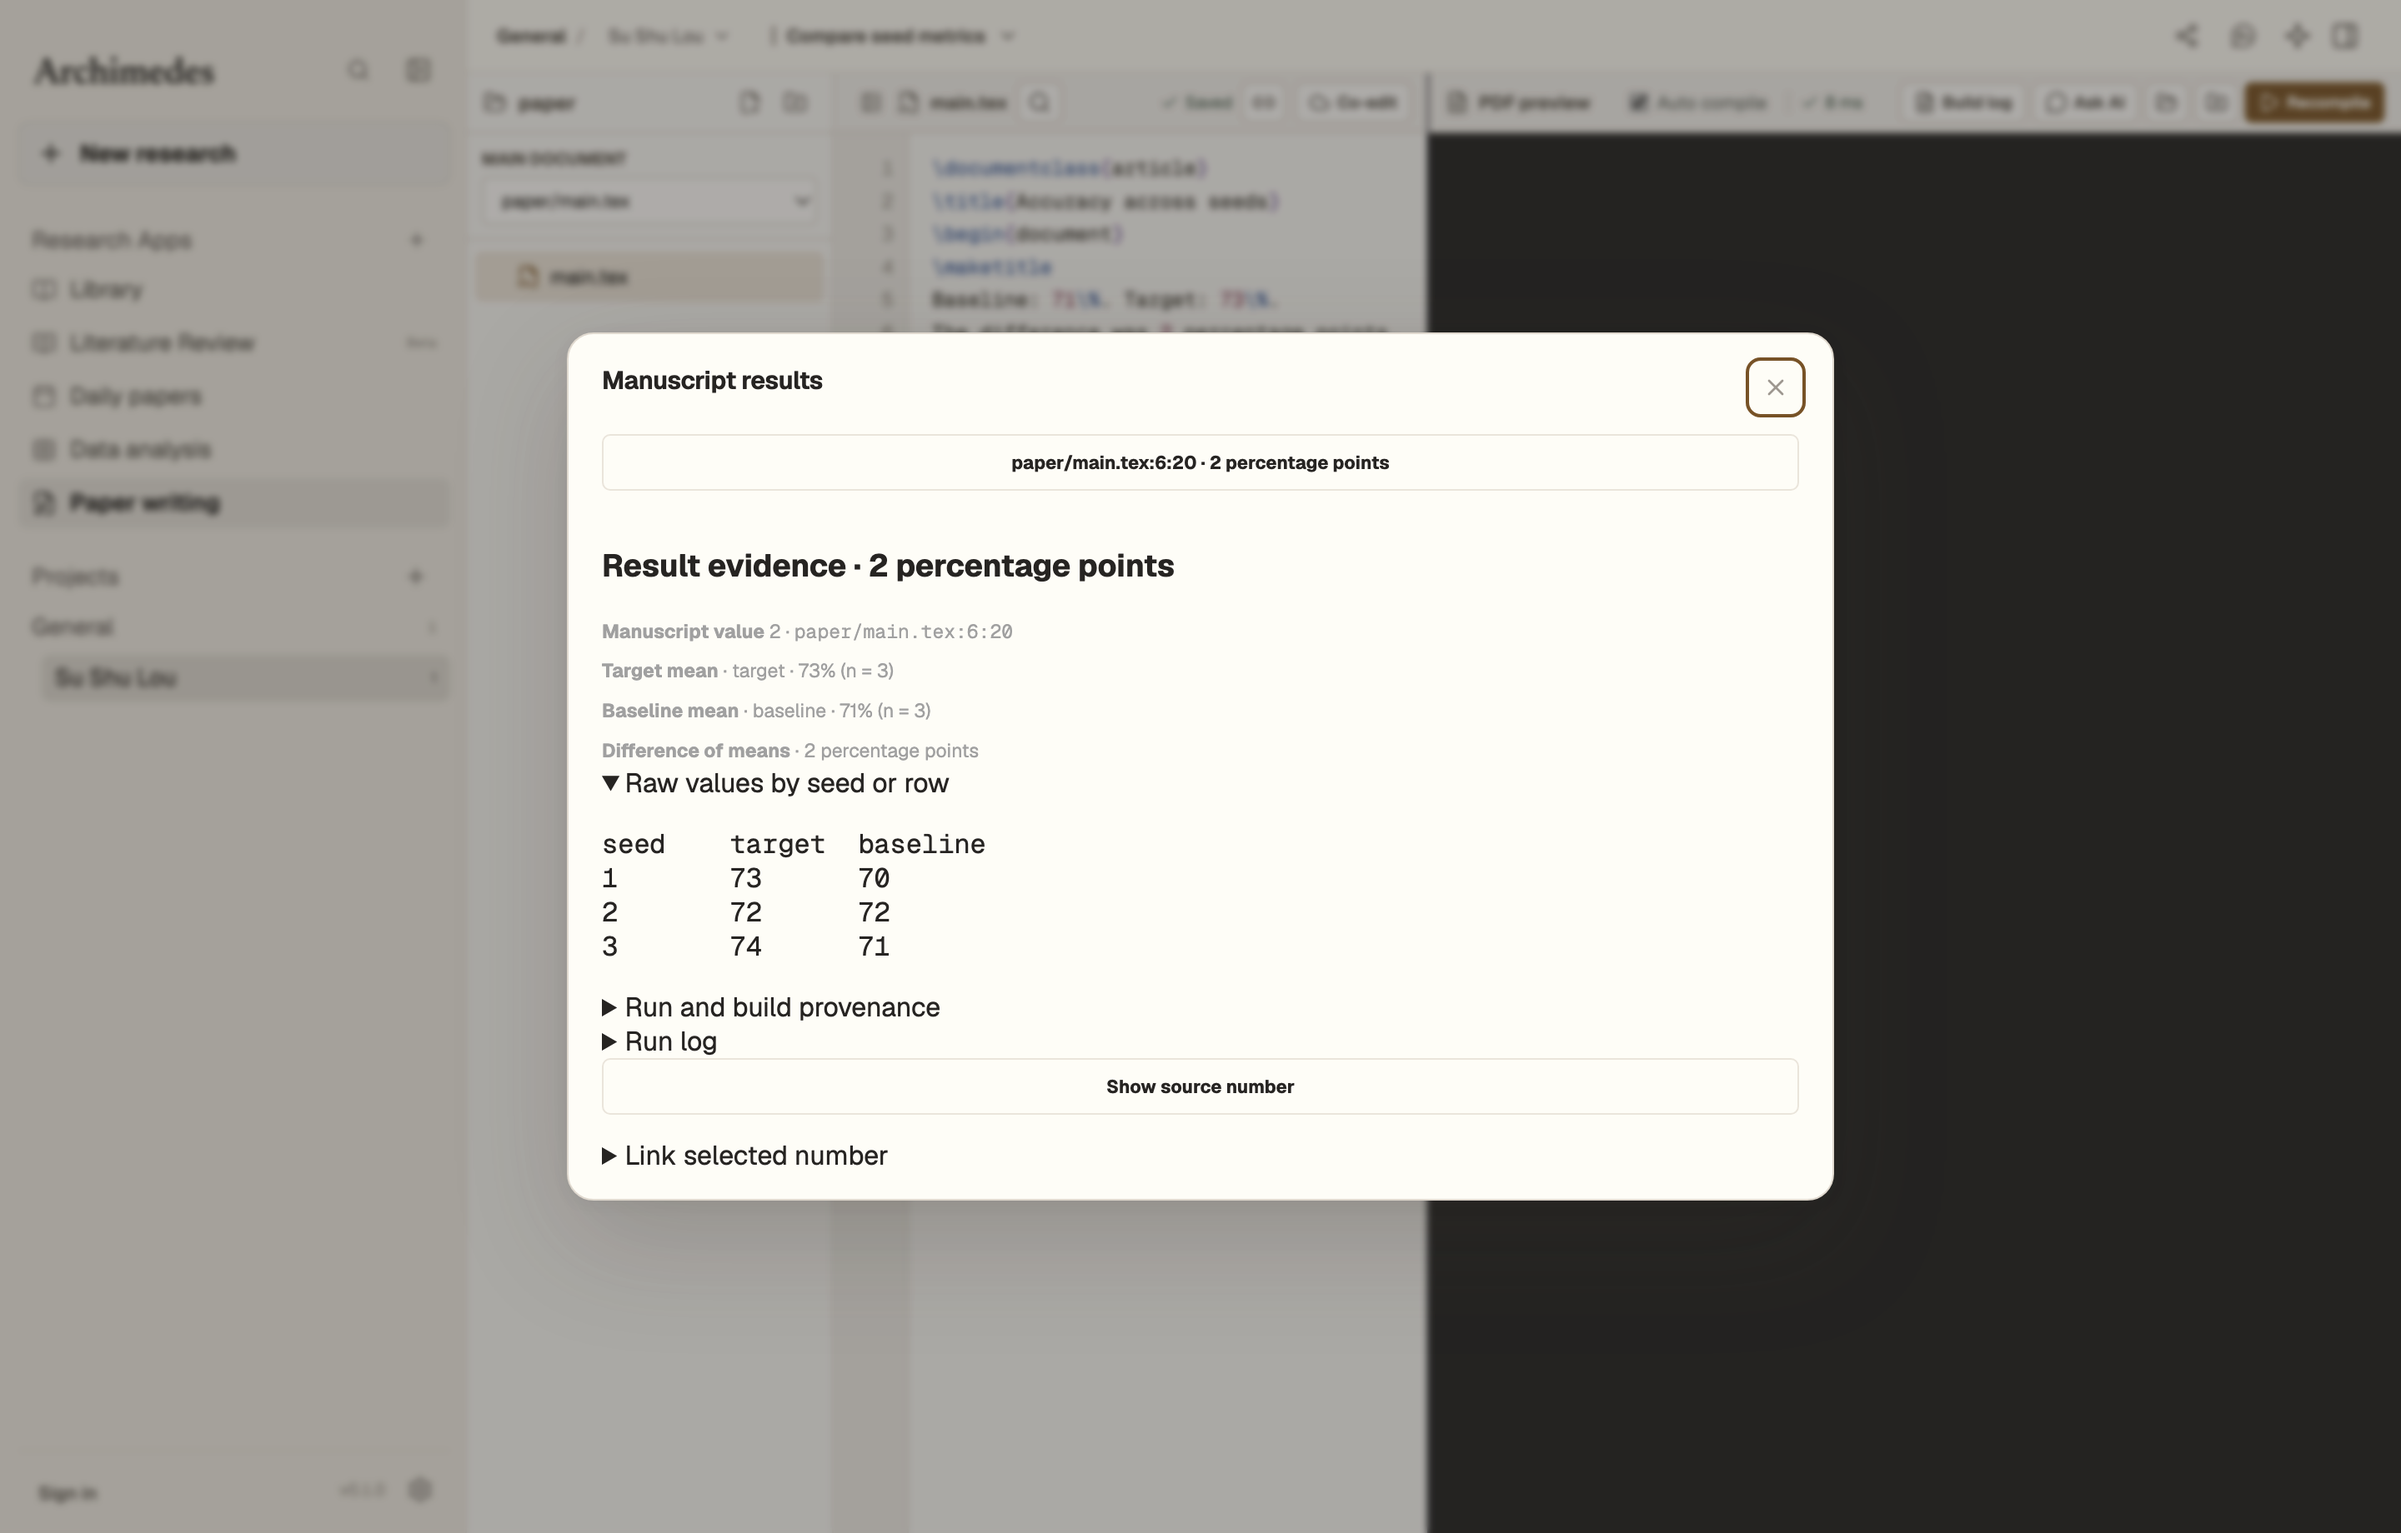
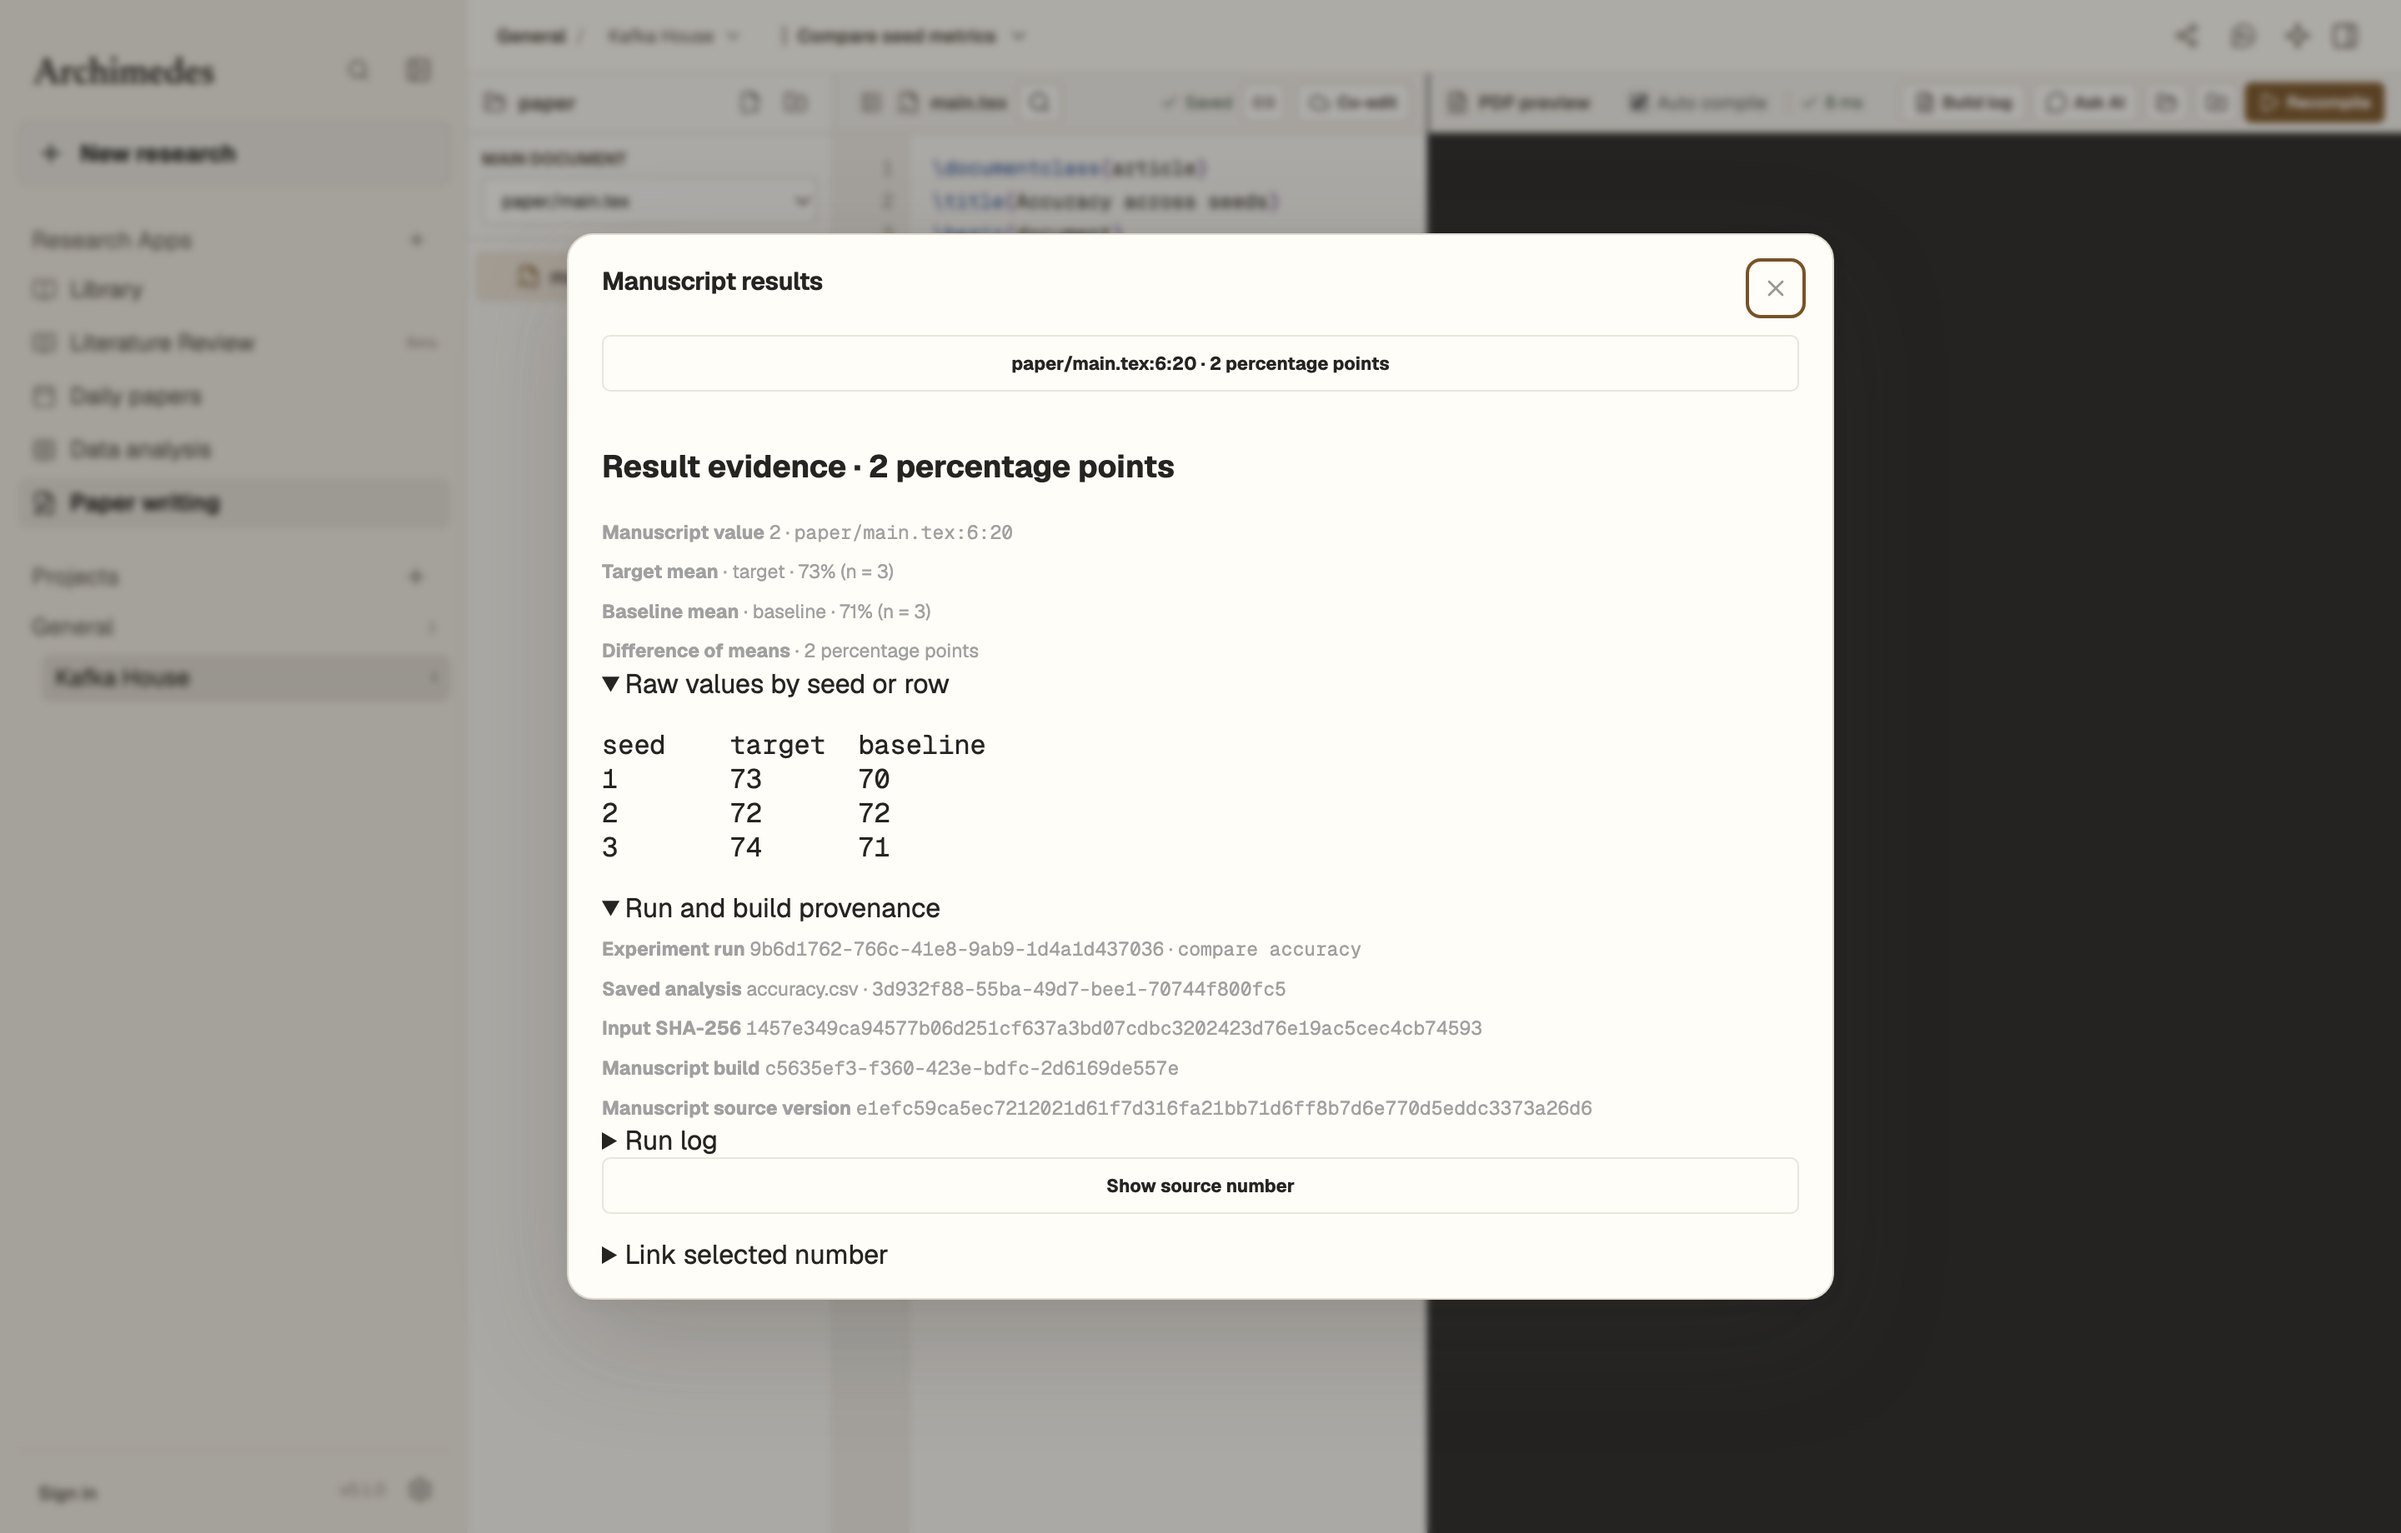
fix(writing): distinguish the manuscript source version in evidence

Changed region(s): [[0.2188, 0.5886, 0.7812, 0.8674], [0.2188, 0.1549, 0.7812, 0.3098], [0.25, 0.3408, 0.5, 0.5576]]

diff --git a/src/i18n/translations/writing.ts b/src/i18n/translations/writing.ts
@@ -79,6 +79,7 @@ export const writing: Record<string, string> = {
   "Looking for manuscripts…": "正在查找稿件…",
   "Manuscript build": "稿件构建",
   "Manuscript results": "稿件结果",
+  "Manuscript source version": "稿件源文件版本",
   "Manuscript sources changed since this result was linked.": "关联此结果后，稿件源码已发生变化。",
   "Manuscript sources changed while being read. Save and compile again.": "读取期间稿件源文件发生了变化。请保存后重新编译。",
   "Manuscript value": "稿件中的数值",
@@ -132,7 +133,6 @@ export const writing: Record<string, string> = {
   "Send selection": "发送选区",
   "Shared *ACL author kit for ACL, EMNLP, NAACL and EACL. Check the target conference rules.": "ACL、EMNLP、NAACL 和 EACL 共用的 *ACL 作者模板。请核对目标会议的具体要求。",
   "Show source number": "查看源码中的数值",
-  "Source version": "源码版本",
   "Start a conversation": "开始一个对话",
   "Target mean": "目标均值",
   "Template categories": "模板分类",

diff --git a/src/PaperWritingView.tsx b/src/PaperWritingView.tsx
@@ -266,7 +266,7 @@ function ManuscriptResultsDialog({ bridge, scope, selection, manifestPath, initi
           <p><b>{t("Saved analysis")}</b> {detail.result.sourceName} · <code>{detail.analysis.id}</code></p>
           <p><b>{t("Input SHA-256")}</b> <code>{detail.result.inputSha256}</code></p>
           <p><b>{t("Manuscript build")}</b> <code>{detail.manuscript.buildId}</code></p>
-          <p><b>{t("Source version")}</b> <code>{detail.manuscript.sourceVersion}</code></p>
+          <p><b>{t("Manuscript source version")}</b> <code>{detail.manuscript.sourceVersion}</code></p>
         </details>
         {detail.log !== null && <details><summary>{t("Run log")}</summary><pre>{detail.log}</pre></details>}
         {!dirty && detail.status.build === "ready" && <div className="paper-existing-projects"><button type="button" className="secondary-button" onClick={() => onOpenSource(detail.manuscript)}>{t("Show source number")}</button></div>}
